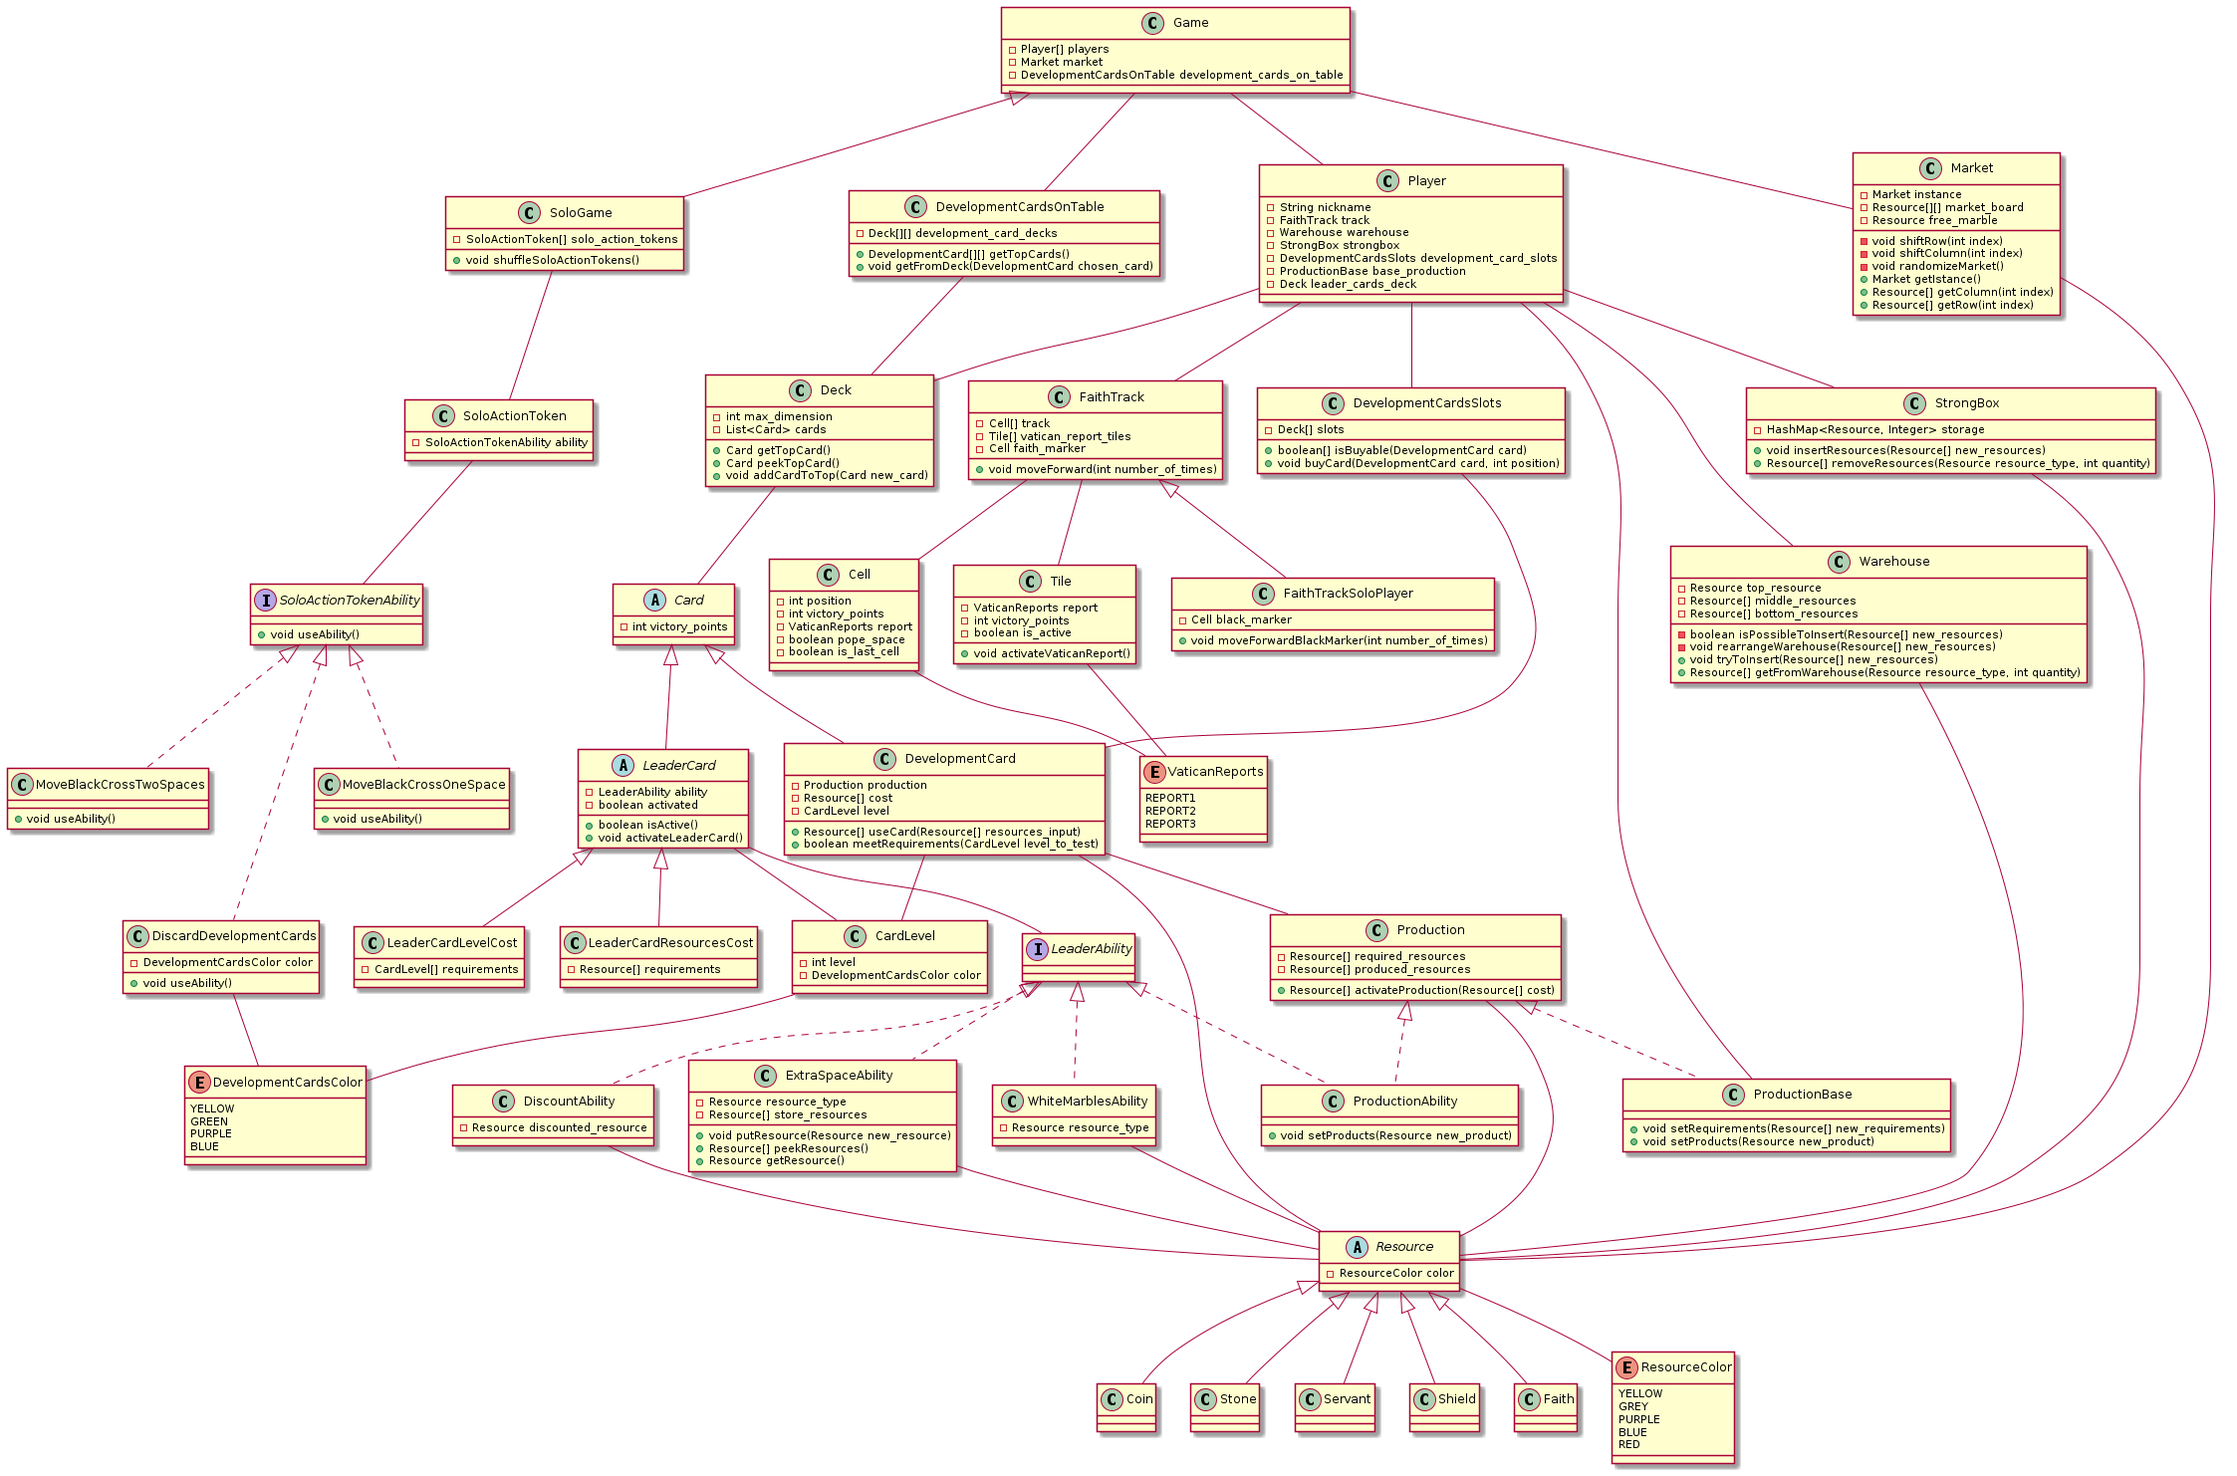
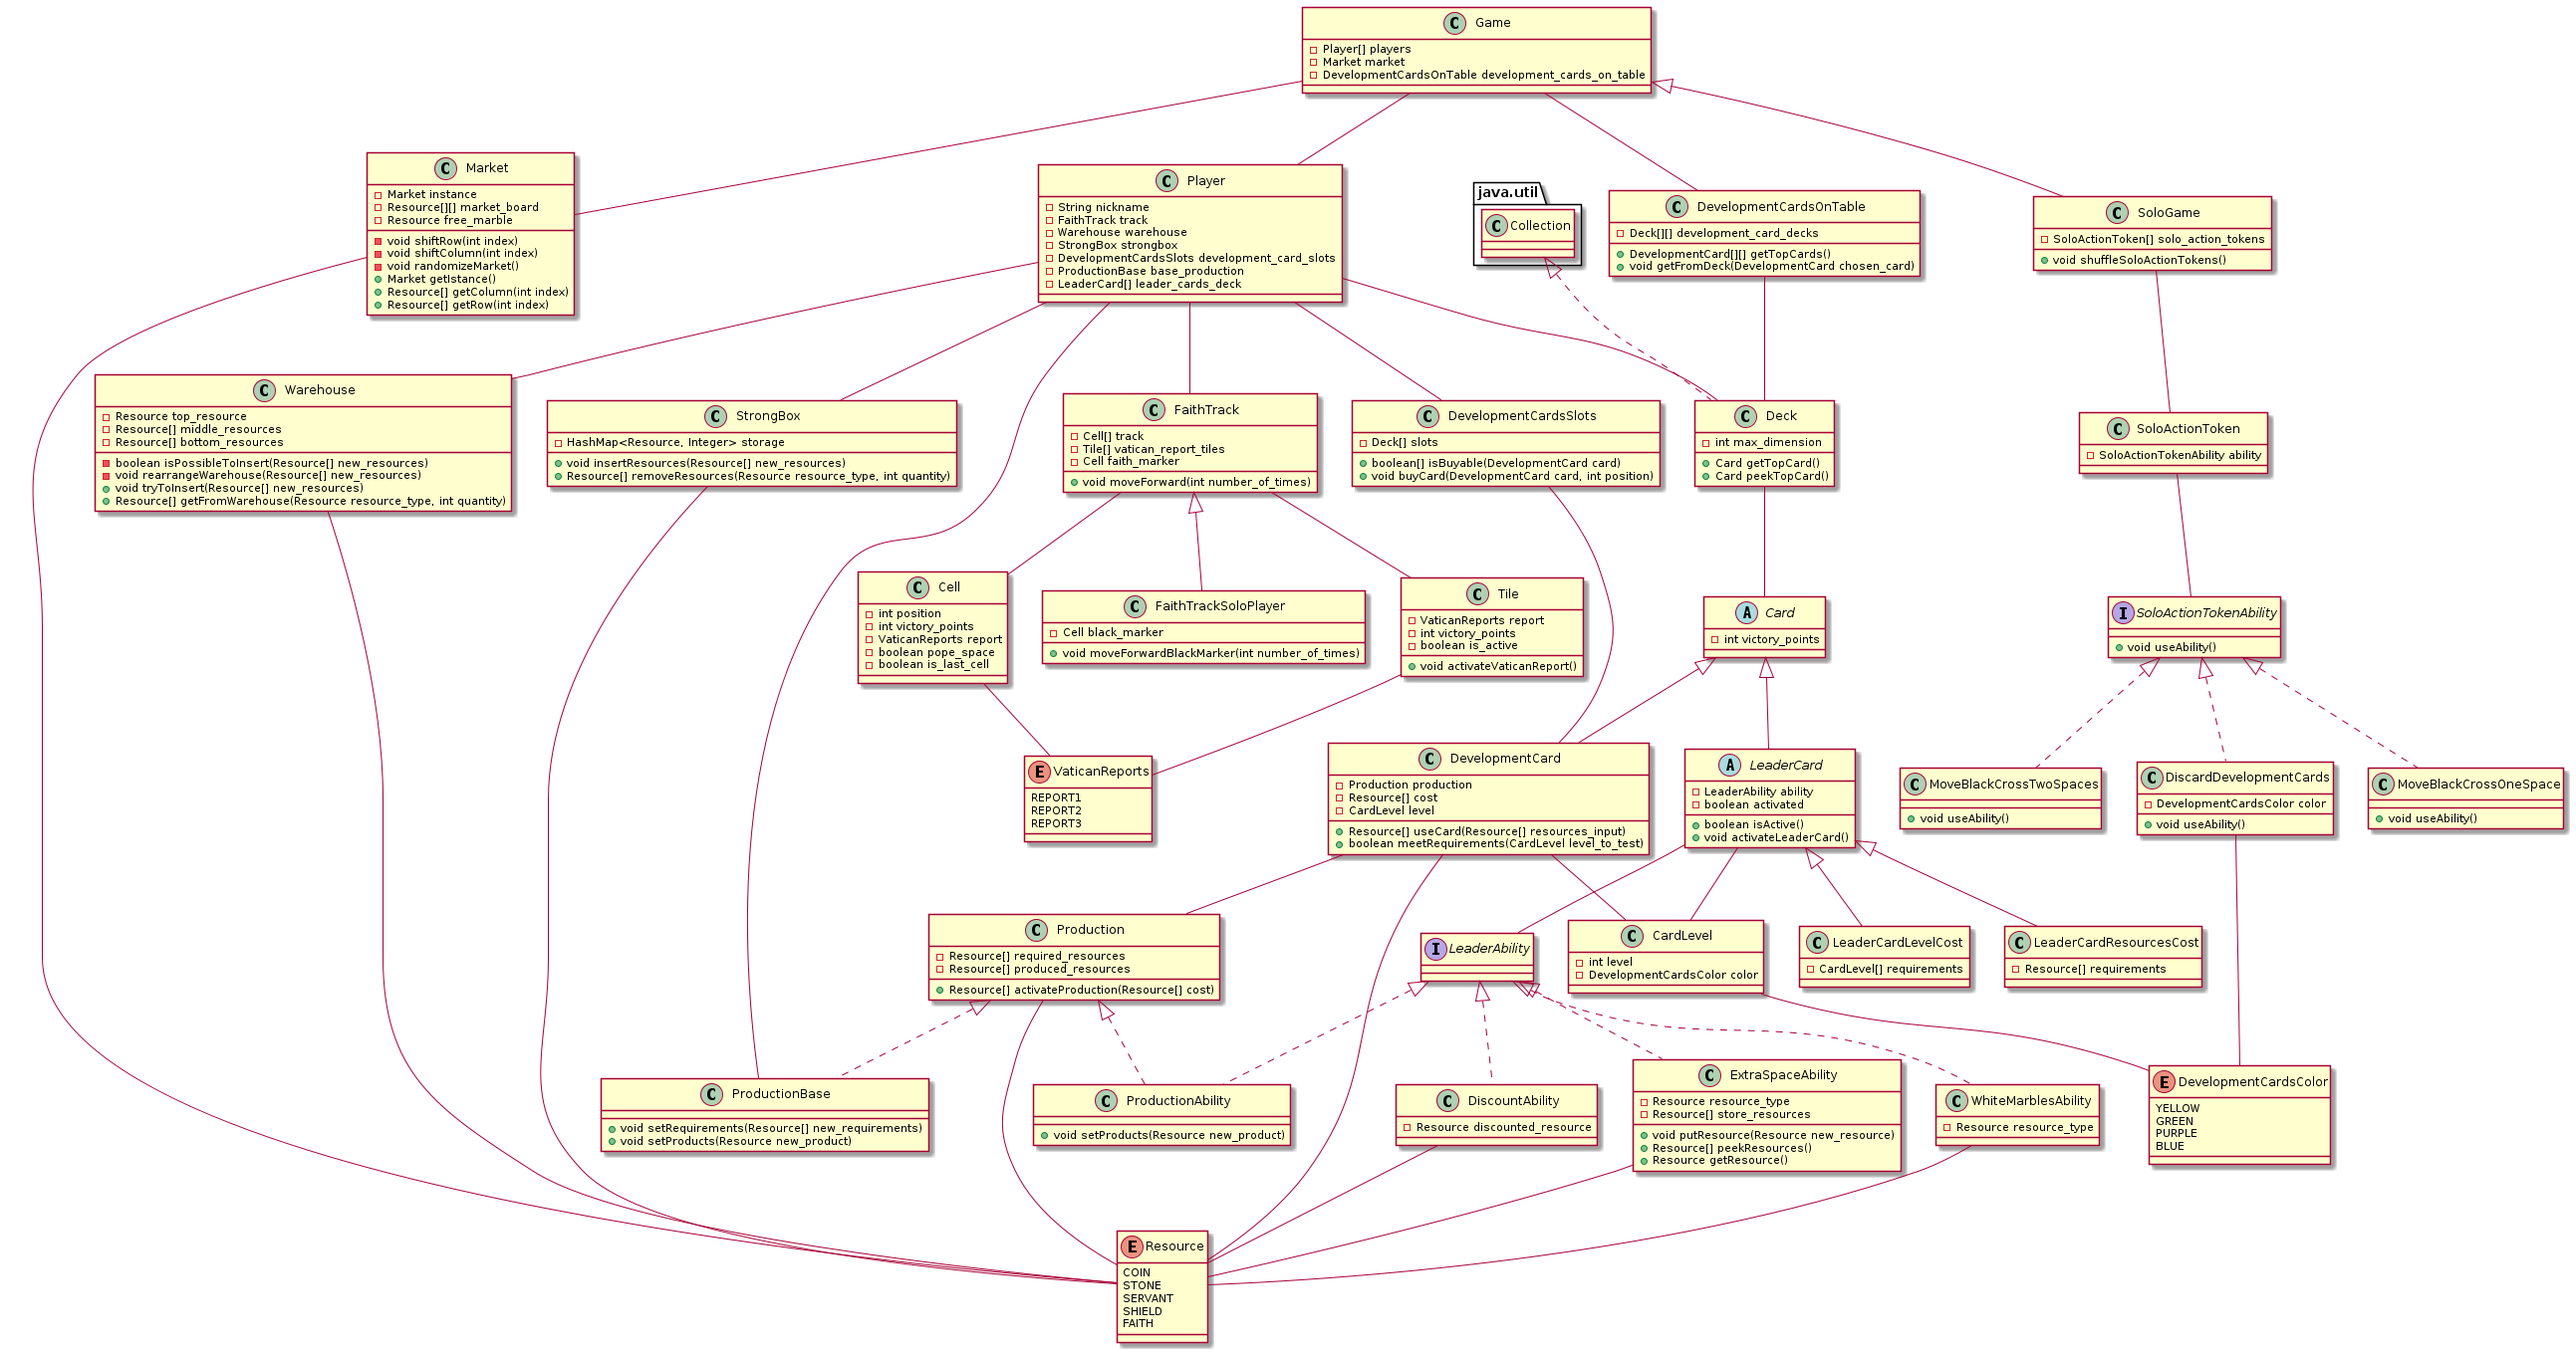
Changes after first laboratory

diff --git a/src/main/java/model/player/Player.java b/src/main/java/model/player/Player.java
@@ -1,6 +1,6 @@
 package it.polimi.ingsw.model.player;
 
-import it.polimi.ingsw.model.card.Deck;
+import it.polimi.ingsw.model.card.LeaderCard;
 
 import it.polimi.ingsw.model.player.DevelopmentCardsSlots;
 import it.polimi.ingsw.model.player.track.FaithTrack;
@@ -16,5 +16,5 @@ public class Player {
 	private StrongBox strongbox;
 	private DevelopmentCardsSlots development_card_slots;
 	private ProductionBase base_production;
-	private Deck leader_cards_deck;
+	private LeaderCard[] leader_cards_deck;
 }

diff --git a/src/main/java/model/card/Deck.java b/src/main/java/model/card/Deck.java
@@ -1,11 +1,10 @@
 package it.polimi.ingsw.model.card;
 
 import it.polimi.ingsw.model.card.Card;
-import java.util.Queue;
+import java.util.Collection;
 
-public class Deck {
+public class Deck implements Collection {
 	private int max_dimension;
-	private Queue<Card> cards;
 
 	public Card getTopCard() {
 		return null;
@@ -13,9 +12,5 @@ public class Deck {
 
 	public Card peekTopCard() {
 		return null;
-	}
-
-	public void addCardToTop(Card new_card) {
-		return;
 	}
 }

diff --git a/src/main/java/model/card/LeaderCard.java b/src/main/java/model/card/LeaderCard.java
@@ -4,9 +4,8 @@ import it.polimi.ingsw.model.card.Card;
 import it.polimi.ingsw.model.card.CardLevel;
 import it.polimi.ingsw.model.card.LeaderAbility;
 
-public class LeaderCard extends Card {
+public abstract class LeaderCard extends Card {
 	private LeaderAbility ability;
-	private CardLevel[] requirements;
 	private boolean activated;
 
 	public boolean isActive() {

diff --git a/src/main/java/model/player/DevelopmentCardsSlots.java b/src/main/java/model/player/DevelopmentCardsSlots.java
@@ -1,9 +1,9 @@
 package it.polimi.ingsw.model.player;
 
-import it.polimi.ingsw.model.card.DevelopmentCard;
+import it.polimi.ingsw.model.card.Deck;
 
 public class DevelopmentCardsSlots {
-	private DevelopmentCard[] slots;
+	private Deck[] slots;
 
 	public boolean[] isBuyable(DevelopmentCard card) {
 		return null;

diff --git a/src/main/java/model/resources/Resource.java b/src/main/java/model/resources/Resource.java
@@ -1,7 +1,9 @@
 package it.polimi.ingsw.model.resources;
 
-import it.polimi.ingsw.model.resources.ResourceColor;
-
-public abstract class Resource {
-	private ResourceColor color;
+public enum Resource {
+	COIN,
+	STONE,
+	SERVANT,
+	SHIELD,
+	FAITH;
 }

diff --git a/src/main/java/model/card/LeaderCardResourcesCost.java b/src/main/java/model/card/LeaderCardResourcesCost.java
@@ -1,0 +1,8 @@
+package model.card;
+
+import model.card.LeaderCard;
+import model.card.CardLevel;
+
+class LeaderCardResourcesCost extends LeaderCard {
+	- Resource[] requirements
+}

diff --git a/src/main/java/model/card/LeaderCardLevelCost.java b/src/main/java/model/card/LeaderCardLevelCost.java
@@ -1,0 +1,8 @@
+package model.card;
+
+import model.card.LeaderCard;
+import model.card.CardLevel;
+
+class LeaderCardLevelCost extends LeaderCard {
+	- CardLevel[] requirements
+}

diff --git a/src/main/java/model/card/Card.java b/src/main/java/model/card/Card.java
@@ -1,5 +1,5 @@
 package it.polimi.ingsw.model.card;
 
 public abstract class Card {
-	int victory_points;
+	private int victory_points;
 }
